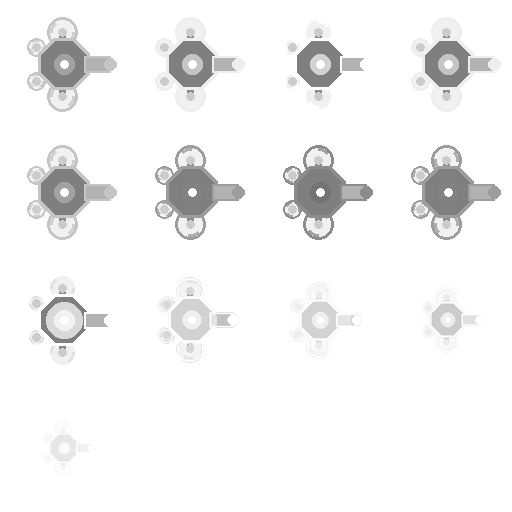
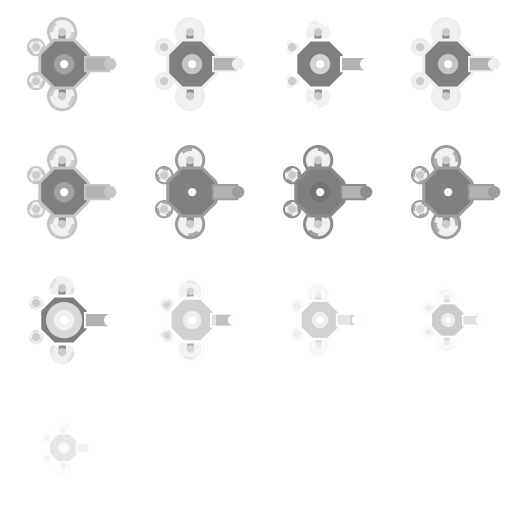
art: supersample the sprite generator (4x + box downsample)
Pillow's polygon/line rasteriser has no antialiasing, so every sprite in the
128px family shipped with visibly stepped neon outlines — only the baked halo
was hiding them.

make_sprites.py now draws the whole S-family (player, 7 enemies, projectiles,
effects) on a 512px working canvas and box-filters it down to 128 before the
halo is baked. BOX is an exact area average over each 4x4 block, which is
textbook supersampling for an integer factor and cannot ring on hard neon
edges the way a windowed filter can.

Shape functions are unchanged and still author in 128-space: a ScaledDraw
proxy multiplies coordinates, pen widths and corner radii on the way to
ImageDraw. Art already authored at its own working size — carrier_sprite()
(which has supersampled since D105) and the 96px pickups — passes s=1 through
the shared helpers and comes out byte-identical, apart from swapping the
carrier's LANCZOS resize for BOX.

Generator run 0.35s -> 0.78s.

Verified: test_manifest.py OK (12 sidecars consistent), ctest 8/8, headless
canary byte-identical across two --seed 42 runs, and before/after sheets
inspected at 3x zoom and at true game size (52-78px) under Foundry's enemy
tint. Not playtested in a window.

Claude-Session: https://claude.ai/code/session_01GKqJjCcHNHGX4D2aAPsN2H

diff --git a/assets/generator/v2/make_sprites.py b/assets/generator/v2/make_sprites.py
@@ -9,6 +9,10 @@ atlas + sidecar in the engine's documented format.
 Entities: player drone, 4 enemies (spark / runner / hulk / warden), 2 projectiles
 (plasma / bolt), 8-frame explosion, 4-frame impact flash.
 
+Everything in the S-family (player, enemies, projectiles, effects) is drawn on a
+canvas SS times the output edge and box-filtered down — see shrink(). Shape code
+below keeps authoring in 128-space; ScaledDraw does the multiplying.
+
 Run: python make_sprites.py
 """
 from __future__ import annotations
@@ -20,24 +24,81 @@ from PIL import Image, ImageChops, ImageDraw, ImageFilter
 from common import add_halo, write_sprite, save_png
 from palette import CORE, FOUNDRY, BIOLAB, MONO
 
-S = 128  # frame size
+S = 128   # OUTPUT frame size — the size art is authored at, and written at
+SS = 4    # supersample factor
+W = S * SS  # working canvas edge
 
 
 def frame():
-    return Image.new("RGBA", (S, S), (0, 0, 0, 0))
+    return Image.new("RGBA", (W, W), (0, 0, 0, 0))
 
 
-def neon_poly(img, pts, fill, outline=None, ow=3):
+def _scale_xy(xy, s):
+    """Scale either coordinate form Pillow accepts: a flat [x0,y0,x1,y1] box or
+    a list of (x, y) points."""
+    if isinstance(xy, (list, tuple)) and xy and isinstance(xy[0], (int, float)):
+        return [v * s for v in xy]
+    return [(x * s, y * s) for x, y in xy]
+
+
+class ScaledDraw:
+    """An ImageDraw proxy that multiplies authored coordinates, pen widths and
+    corner radii by `s`.
+
+    Pillow's polygon/line rasteriser has no antialiasing, so drawing a 128px
+    sprite directly gave visibly stepped neon outlines that only the baked halo
+    hid. Everything is drawn at SSx and box-filtered down instead — the same
+    trick carrier_sprite() has always used (D105), applied to the whole roster.
+
+    This proxy exists so that stays a one-line change per draw site: every shape
+    function keeps its coordinates in the 128-space the art was authored in.
+    """
+
+    _SCALED_KW = ("width", "radius")
+
+    def __init__(self, d, s):
+        self._d, self._s = d, s
+
+    def __getattr__(self, name):
+        fn = getattr(self._d, name)
+
+        def call(xy, *args, **kw):
+            for k in self._SCALED_KW:
+                if kw.get(k) is not None:
+                    kw[k] = max(1, int(round(kw[k] * self._s)))
+            return fn(_scale_xy(xy, self._s), *args, **kw)
+        return call
+
+
+def draw(img, s=SS):
+    """ImageDraw.Draw for art authored in 128-space. `s=1` for art already
+    authored at its working size (the carrier, the pickups)."""
+    return ScaledDraw(ImageDraw.Draw(img), s)
+
+
+def shrink(img, size=S):
+    """SSx working canvas -> output frame. BOX is an exact area average over each
+    SSxSS block, which is textbook supersampling for an integer factor and cannot
+    ring the way a windowed filter does on hard neon edges.
+
+    ponytail: straight (non-premultiplied) resize. The transparent black outside
+    the silhouette can darken the outermost edge pixels; add_halo runs after this
+    and paints over them. If a dark fringe ever shows, premultiply alpha here.
+    """
+    return img.resize((size, size), Image.BOX)
+
+
+def neon_poly(img, pts, fill, outline=None, ow=3, s=SS):
     """Filled polygon with a bright neon outline drawn onto a fresh overlay so the
     core stays crisp under the baked halo."""
-    d = ImageDraw.Draw(img)
+    d = draw(img, s)
     d.polygon(pts, fill=(fill[0], fill[1], fill[2], 255))
     if outline:
         d.line(pts + [pts[0]], fill=(outline[0], outline[1], outline[2], 255), width=ow)
 
 
-def dot(img, xy, r, col, a=255):
-    d = ImageDraw.Draw(img)
+def dot(img, xy, r, col, a=255, s=SS):
+    d = draw(img, s)
     d.ellipse([xy[0]-r, xy[1]-r, xy[0]+r, xy[1]+r],
               fill=(col[0], col[1], col[2], a))
 
@@ -51,13 +112,13 @@ def scale_col(c, m):
     return (min(255, int(c[0]*m)), min(255, int(c[1]*m)), min(255, int(c[2]*m)))
 
 
-def boom(img, p0, p1, col, w):
+def boom(img, p0, p1, col, w, s=SS):
     """A structural arm between the chassis and a rotor pod."""
-    d = ImageDraw.Draw(img)
+    d = draw(img, s)
     d.line([p0, p1], fill=(col[0], col[1], col[2], 255), width=w)
 
 
-def rotor(img, xy, r, body, accent, b, t, blades=2, w=3):
+def rotor(img, xy, r, body, accent, b, t, blades=2, w=3, s=SS):
     """A rotor pod: pod ring + a translucent swept disc + blades at phase `t`.
 
     The blades rotate with the frame phase, which is the whole reason these read
@@ -66,7 +127,7 @@ def rotor(img, xy, r, body, accent, b, t, blades=2, w=3):
     """
     x, y = xy
     lay = Image.new("RGBA", img.size, (0, 0, 0, 0))
-    d = ImageDraw.Draw(lay)
+    d = draw(lay, s)
     d.ellipse([x-r, y-r, x+r, y+r], fill=(body[0], body[1], body[2], 70))
     d.ellipse([x-r, y-r, x+r, y+r], outline=(accent[0], accent[1], accent[2], 255), width=w)
     deg = 360.0 * t
@@ -78,12 +139,12 @@ def rotor(img, xy, r, body, accent, b, t, blades=2, w=3):
     img.alpha_composite(lay)
 
 
-def quad_pods(f, pal, col, b, t, pods, r, hub, bw):
+def quad_pods(f, pal, col, b, t, pods, r, hub, bw, s=SS):
     """Four (or two) rotor pods on booms from `hub`, drawn back-to-front."""
     for px, py in pods:
-        boom(f, hub, (px, py), scale_col(col, 0.45), bw)
+        boom(f, hub, (px, py), scale_col(col, 0.45), bw, s=s)
     for px, py in pods:
-        rotor(f, (px, py), r, scale_col(col, 0.8), scale_col(pal.accent, b), b, t)
+        rotor(f, (px, py), r, scale_col(col, 0.8), scale_col(pal.accent, b), b, t, s=s)
 
 
 # ---------------------------------------------------------------------------
@@ -107,7 +168,7 @@ def player_frames(n=6):
         neon_poly(f, hull, scale_col(pal.primary, 0.7),
                   outline=scale_col(pal.accent, b), ow=3)
         # spine plating
-        d = ImageDraw.Draw(f)
+        d = draw(f)
         d.line([(cx-16, cy-8), (cx+18, cy-8)], fill=scale_col(pal.secondary, 0.8) + (255,), width=2)
         d.line([(cx-16, cy+8), (cx+18, cy+8)], fill=scale_col(pal.secondary, 0.8) + (255,), width=2)
         # sensor eye
@@ -116,7 +177,7 @@ def player_frames(n=6):
         # thrusters
         for ey in (-9, 9):
             dot(f, (cx-24, cy+ey), 5, scale_col(pal.secondary, b))
-        f = add_halo(f, pal.primary, spread=0.14, strength=150)
+        f = add_halo(shrink(f), pal.primary, spread=0.14, strength=150)
         frames.append(f)
     return frames
 
@@ -130,7 +191,7 @@ def enemy_frames(shape_fn, pal, body_col, n=8):
         f = frame()
         b = pulse(i / n)
         shape_fn(f, pal, body_col, b, i / n)
-        f = add_halo(f, body_col, spread=0.16, strength=150)
+        f = add_halo(shrink(f), body_col, spread=0.16, strength=150)
         frames.append(f)
     # death: n-frame dissolve (fade + shrink into a flash)
     death = []
@@ -141,15 +202,15 @@ def enemy_frames(shape_fn, pal, body_col, n=8):
         base = frame()
         shape_fn(base, pal, body_col, 1.0, t)
         sc = 1.0 - 0.5 * t
-        small = base.resize((int(S*sc), int(S*sc)))
-        f.paste(small, (int((S-small.size[0])/2), int((S-small.size[1])/2)), small)
+        small = base.resize((int(W*sc), int(W*sc)))
+        f.paste(small, (int((W-small.size[0])/2), int((W-small.size[1])/2)), small)
         # fade alpha
         alpha = f.split()[3].point(lambda v: int(v * (1 - t)))
         f.putalpha(alpha)
         if t < 0.6:  # early flash
             fl = frame(); dot(fl, (S/2, S/2), int(18 + 30*t), pal.accent, int(180*(1-t)))
             f = Image.alpha_composite(f, fl)
-        f = add_halo(f, body_col, spread=0.16, strength=int(150*(1-t)))
+        f = add_halo(shrink(f), body_col, spread=0.16, strength=int(150*(1-t)))
         death.append(f)
     return frames, death
 
@@ -176,7 +237,7 @@ def runner_shape(f, pal, col, b, t):
     neon_poly(f, [(cx+42, cy), (cx+4, cy-15), (cx-22, cy-9),
                   (cx-22, cy+9), (cx+4, cy+15)],
               scale_col(col, 0.6), outline=scale_col(pal.accent, b), ow=3)
-    d = ImageDraw.Draw(f)
+    d = draw(f)
     d.line([(cx-16, cy), (cx+22, cy)], fill=scale_col(pal.secondary, 0.9) + (255,), width=2)
     dot(f, (cx+2, cy), 7, scale_col(pal.accent, b))
     dot(f, (cx+20, cy), 4, (255, 255, 255))
@@ -192,7 +253,7 @@ def hulk_shape(f, pal, col, b, t):
     pts = [(cx + r*math.cos(a), cy + r*math.sin(a))
            for a in [math.pi*k/3 for k in range(6)]]
     neon_poly(f, pts, scale_col(col, 0.55), outline=scale_col(pal.accent, b), ow=4)
-    d = ImageDraw.Draw(f)
+    d = draw(f)
     r2 = 17
     d.polygon([(cx + r2*math.cos(a), cy + r2*math.sin(a))
                for a in [math.pi*k/3 for k in range(6)]],
@@ -218,7 +279,7 @@ def warden_shape(f, pal, col, b, t):
     pts = [(cx + r*math.cos(a+math.pi/8), cy + r*math.sin(a+math.pi/8))
            for a in [math.pi*k/4 for k in range(8)]]
     neon_poly(f, pts, scale_col(col, 0.5), outline=scale_col(pal.accent, b), ow=3)
-    d = ImageDraw.Draw(f)
+    d = draw(f)
     d.rectangle([cx+r-6, cy-8, cx+r+20, cy+8], fill=scale_col(col, 0.7) + (255,))
     d.rectangle([cx+r-6, cy-8, cx+r+20, cy+8],
                 outline=scale_col(pal.accent, b) + (255,), width=2)
@@ -239,8 +300,8 @@ def _crescent(f, r, dx, br, fill, outline, ow):
     (art faces right, so the horns point the way the moon is travelling).
     Returns the two horn tips for tier decoration."""
     cx, cy = S/2, S/2
-    lay = Image.new("RGBA", (S, S), (0, 0, 0, 0))
-    d = ImageDraw.Draw(lay)
+    lay = Image.new("RGBA", f.size, (0, 0, 0, 0))
+    d = draw(lay)
     d.ellipse([cx-r, cy-r, cx+r, cy+r], fill=fill + (255,))
     d.ellipse([cx-r, cy-r, cx+r, cy+r], outline=outline + (255,), width=ow)
     # Inner rim: a ring hugging the OUTSIDE of the bite, so it survives the punch
@@ -249,8 +310,8 @@ def _crescent(f, r, dx, br, fill, outline, ow):
     d.ellipse([cx+dx-g, cy-g, cx+dx+g, cy+g], outline=outline + (255,), width=ow)
     # Punch the shadowed lobe, and clip everything to the lit disc so no stray
     # rim escapes the silhouette.
-    mask = Image.new("L", (S, S), 0)
-    md = ImageDraw.Draw(mask)
+    mask = Image.new("L", f.size, 0)
+    md = draw(mask)
     md.ellipse([cx-r, cy-r, cx+r, cy+r], fill=255)
     md.ellipse([cx+dx-br, cy-br, cx+dx+br, cy+br], fill=0)
     lay.putalpha(ImageChops.multiply(lay.split()[3], mask))
@@ -317,7 +378,7 @@ def carrier_sprite():
     for sx in (-1, 1):
         for sy in (-1, 1):
             px, py = cx + sx*104, cy + sy*152
-            rotor(f, (px, py), 54, scale_col(col, 0.55), rim, 1.0, 0.12, blades=4, w=7)
+            rotor(f, (px, py), 54, scale_col(col, 0.55), rim, 1.0, 0.12, blades=4, w=7, s=1)
             d = ImageDraw.Draw(f)
             d.ellipse([px-58, py-58, px+58, py+58], outline=plate + (255,), width=4)
 
@@ -359,8 +420,8 @@ def carrier_sprite():
               (cx+34, cy+30), (cx+86, cy+34)]
     d.polygon(bridge, fill=scale_col(col, 0.58) + (255,))
     d.line(bridge + [bridge[0]], fill=rim + (255,), width=4)
-    dot(f, (cx+72, cy), 20, rim)
-    dot(f, (cx+72, cy), 10, (255, 255, 255))
+    dot(f, (cx+72, cy), 20, rim, s=1)
+    dot(f, (cx+72, cy), 10, (255, 255, 255), s=1)
 
     # --- prow: main bay aperture, split by an armoured beak ---
     d = ImageDraw.Draw(f)
@@ -376,15 +437,15 @@ def carrier_sprite():
     for k, ey in enumerate((-40, 0, 40)):
         d.rectangle([cx-232, cy+ey-17, cx-198, cy+ey+17], fill=plate + (255,))
         d.rectangle([cx-232, cy+ey-17, cx-198, cy+ey+17], outline=rim + (255,), width=3)
-        dot(f, (cx-230, cy+ey), 12, rim, 230)
-        dot(f, (cx-236, cy+ey), 6, (255, 255, 255))
+        dot(f, (cx-230, cy+ey), 12, rim, 230, s=1)
+        dot(f, (cx-236, cy+ey), 6, (255, 255, 255), s=1)
 
     # --- masts ---
     for sy in (-1, 1):
         d.line([(cx+20, cy + sy*72), (cx+4, cy + sy*118)], fill=plate + (255,), width=5)
-        dot(f, (cx+4, cy + sy*118), 7, rim)
+        dot(f, (cx+4, cy + sy*118), 7, rim, s=1)
 
-    f = f.resize((CO, CO), Image.LANCZOS)
+    f = f.resize((CO, CO), Image.BOX)
     return add_halo(f, col, spread=0.11, strength=140)
 
 
@@ -405,7 +466,7 @@ def health_pickup():
     exact colour the flat-Color placeholder used, so nothing else has to move."""
     body, edge = (60, 170, 90), (170, 255, 195)
     f = _pickup_frame()
-    d = ImageDraw.Draw(f)
+    d = draw(f, 1)
     c = P/2
     d.ellipse([c-38, c-38, c+38, c+38], outline=(60, 140, 90, 255), width=4)
     for box in ([c-10, c-30, c+10, c+30], [c-30, c-10, c+30, c+10]):
@@ -421,7 +482,7 @@ def shield_pickup():
     Ice blue (120,200,255) — the placeholder's colour."""
     body, edge = (55, 115, 180), (190, 230, 255)
     f = _pickup_frame()
-    d = ImageDraw.Draw(f)
+    d = draw(f, 1)
     c = P/2
     crest = [(c, c-34), (c+28, c-18), (c+28, c+4), (c, c+34), (c-28, c+4), (c-28, c-18)]
     d.polygon(crest, fill=body + (255,))
@@ -437,7 +498,7 @@ def coin_sprite():
     glyph, so it never reads as a projectile (those are soft glow blobs with no
     edge). Gold (255,210,90) — the placeholder's colour."""
     f = _pickup_frame()
-    d = ImageDraw.Draw(f)
+    d = draw(f, 1)
     c = P/2
     d.ellipse([c-34, c-34, c+34, c+34], fill=(190, 140, 35, 255))
     d.ellipse([c-34, c-34, c+34, c+34], outline=(255, 235, 150, 255), width=5)
@@ -454,7 +515,7 @@ def mine_sprite():
     spark. The body is dark so the hot orange rim and the spark carry it against
     a near-black arena."""
     f = _pickup_frame()
-    d = ImageDraw.Draw(f)
+    d = draw(f, 1)
     c = P/2
     cy = c + 8
     d.ellipse([c-30, cy-30, c+30, cy+30], fill=(38, 26, 30, 255))
@@ -484,7 +545,7 @@ def plasma_frames(n=4):
         dot(f, (S/2, S/2), int(16*b), pal.primary)
         dot(f, (S/2, S/2), 8, pal.accent)
         dot(f, (S/2, S/2), 4, (255, 255, 255))
-        f = add_halo(f, pal.primary, spread=0.22, strength=180)
+        f = add_halo(shrink(f), pal.primary, spread=0.22, strength=180)
         frames.append(f)
     return frames
 
@@ -495,13 +556,12 @@ def bolt_frames(n=4):
     for i in range(n):
         f = frame()
         b = pulse(i / n)
-        d = ImageDraw.Draw(f)
         cx, cy = S/2, S/2
         # elongated dart facing right
         pts = [(cx+30, cy), (cx-18, cy-9), (cx-10, cy), (cx-18, cy+9)]
         neon_poly(f, pts, scale_col(pal.primary, 0.8), outline=scale_col(pal.accent, b), ow=2)
         dot(f, (cx+12, cy), 4, (255, 255, 255))
-        f = add_halo(f, pal.primary, spread=0.2, strength=170)
+        f = add_halo(shrink(f), pal.primary, spread=0.2, strength=170)
         frames.append(f)
     return frames
 
@@ -519,7 +579,7 @@ def explosion_frames(n=8):
         r = 10 + t * 54
         a = int(255 * (1 - t) ** 1.3)
         # expanding ring
-        d = ImageDraw.Draw(f)
+        d = draw(f)
         col = pal.accent if t < 0.4 else pal.primary
         d.ellipse([cx-r, cy-r, cx+r, cy+r], outline=(col[0], col[1], col[2], a),
                   width=max(2, int(10*(1-t))))
@@ -532,7 +592,7 @@ def explosion_frames(n=8):
             rr = r*0.9
             dot(f, (cx+math.cos(ang)*rr, cy+math.sin(ang)*rr), max(1,int(5*(1-t))),
                 pal.secondary, a)
-        f = f.filter(ImageFilter.GaussianBlur(1.2))
+        f = shrink(f.filter(ImageFilter.GaussianBlur(1.2 * SS)))
         frames.append(f)
     return frames
 
@@ -551,7 +611,7 @@ def impact_frames(n=4):
             dot(f, (cx+math.cos(ang)*r, cy+math.sin(ang)*r), max(1,int(4*(1-t)+1)),
                 pal.accent, a)
         dot(f, (cx, cy), int(8*(1-t)+2), (255,255,255), a)
-        f = f.filter(ImageFilter.GaussianBlur(0.8))
+        f = shrink(f.filter(ImageFilter.GaussianBlur(0.8 * SS)))
         frames.append(f)
     return frames
 

diff --git a/agentProjectDocs/progress-tracker.md b/agentProjectDocs/progress-tracker.md
@@ -125,6 +125,22 @@ Keep under ~60 lines; collapse old Completed entries to one line each.
 
 ## Session Notes
 
+- **Art (2026-08-10): the sprite generator supersamples.** Pillow's polygon/line
+  rasteriser has no antialiasing, so every 128px sprite shipped with stepped
+  neon outlines that only the baked halo hid. `make_sprites.py` now draws the
+  whole S-family on a 512px canvas through a `ScaledDraw` proxy (authored
+  coordinates, pen widths and radii multiplied by `SS=4`) and box-filters down
+  in `shrink()` before `add_halo` — the trick `carrier_sprite()` already used
+  (D105), applied to the roster. Shape code is unchanged: it still authors in
+  128-space. Art already authored at its working size (the carrier, the 96px
+  pickups) passes `s=1` and is byte-identical apart from the carrier's
+  LANCZOS -> BOX swap. Generator run: 0.35s -> 0.78s. Verified: manifest test
+  OK (12 sidecars), `ctest` 8/8, headless canary byte-identical twice on
+  `--seed 42`, before/after sheets read at 3x zoom and at true game size under
+  arena tint. **Not playtested in a window.**
+  Pillow is not installed system-wide here (PEP 668); the wheel was unpacked to
+  a scratch dir and used via PYTHONPATH.
+
 - **Docs (2026-08-10): `docs/features.html` refreshed to the shipped game.** It
   was written against the 20-wave/4-arena Phase-4 game and its header still
   called the dash/minimap/boss/sustain/actives blocks "inert scaffolding". Now
